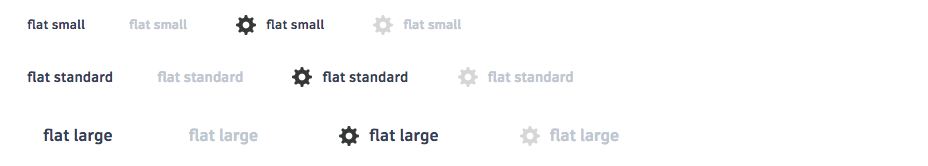
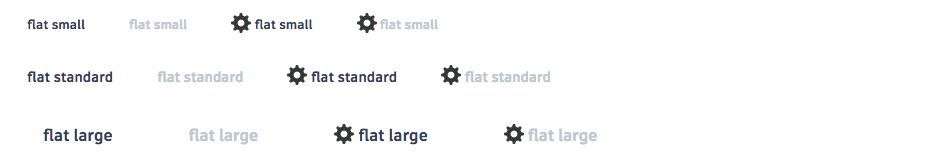
Impliment Button.setIcon

diff --git a/src/web/basics/button/button.js b/src/web/basics/button/button.js
@@ -18,6 +18,13 @@ class Button extends Core {
     constructor(options){
         super(options);
         this._render(Template, options);
+        this.initialOptions = options;
+    }
+
+    _componentDidMount() {
+        if (this.initialOptions.icon) {
+            this.setIcon(this.initialOptions.icon);
+        }
     }
 
     setTitle(title){
@@ -48,7 +55,13 @@ class Button extends Core {
     }
 
     setIcon(icon){
-        // TODO
+        if (icon && icon.length > 0) {
+            const iconString = this._getIconString(icon);
+
+            this._findOrAddElement('ICON', 'span', '.hig__button__icon').innerHTML = iconString;
+        } else {
+            this._removeElementIfFound('.hig__button__icon');
+        }
     }
 
     disable(){

diff --git a/src/web/basics/button/button.scss b/src/web/basics/button/button.scss
@@ -128,10 +128,17 @@
     }
 }
 
-.hig__button__icon > .hig__icon {
-    display: inline;
-    margin-right: 5px;
-    padding-left: 30px;
+.hig__button__icon {
+    display: inline-block;
+    height: 26px;
+    vertical-align: middle;
+
+    > .hig__icon {
+        display: inline;
+        margin-right: 5px;
+        padding-left: 30px;
+    }
+
 }
 
 .hig__button--disabled > .hig__button__icon > .hig__icon {

diff --git a/src/web/basics/button/tests/tests-button.html b/src/web/basics/button/tests/tests-button.html
@@ -330,6 +330,8 @@
             UpdateButton.setLink("http://autodesk.com");
             UpdateButton.setSize("large");
             UpdateButton.setType("secondary");
+            UpdateButton.setIcon("gear");
+
 
             // Unmount a Button
             // Remove a button from the DOM after creation, this button should not render

diff --git a/src/web/basics/button/button.html b/src/web/basics/button/button.html
@@ -1,4 +1,4 @@
 <a href='{{ link }}' class='hig__button hig__button--{{type}} hig__button--{{size}}' title='{{ title }}'>
-    {{#icon}}<span class="hig__button__icon">{{#renderIcon}}{{ icon }}{{/renderIcon}}</span>{{/icon}}
+    <!--ICON-->
     <span class="hig__button__title">{{ title }}</span>
 </a>
